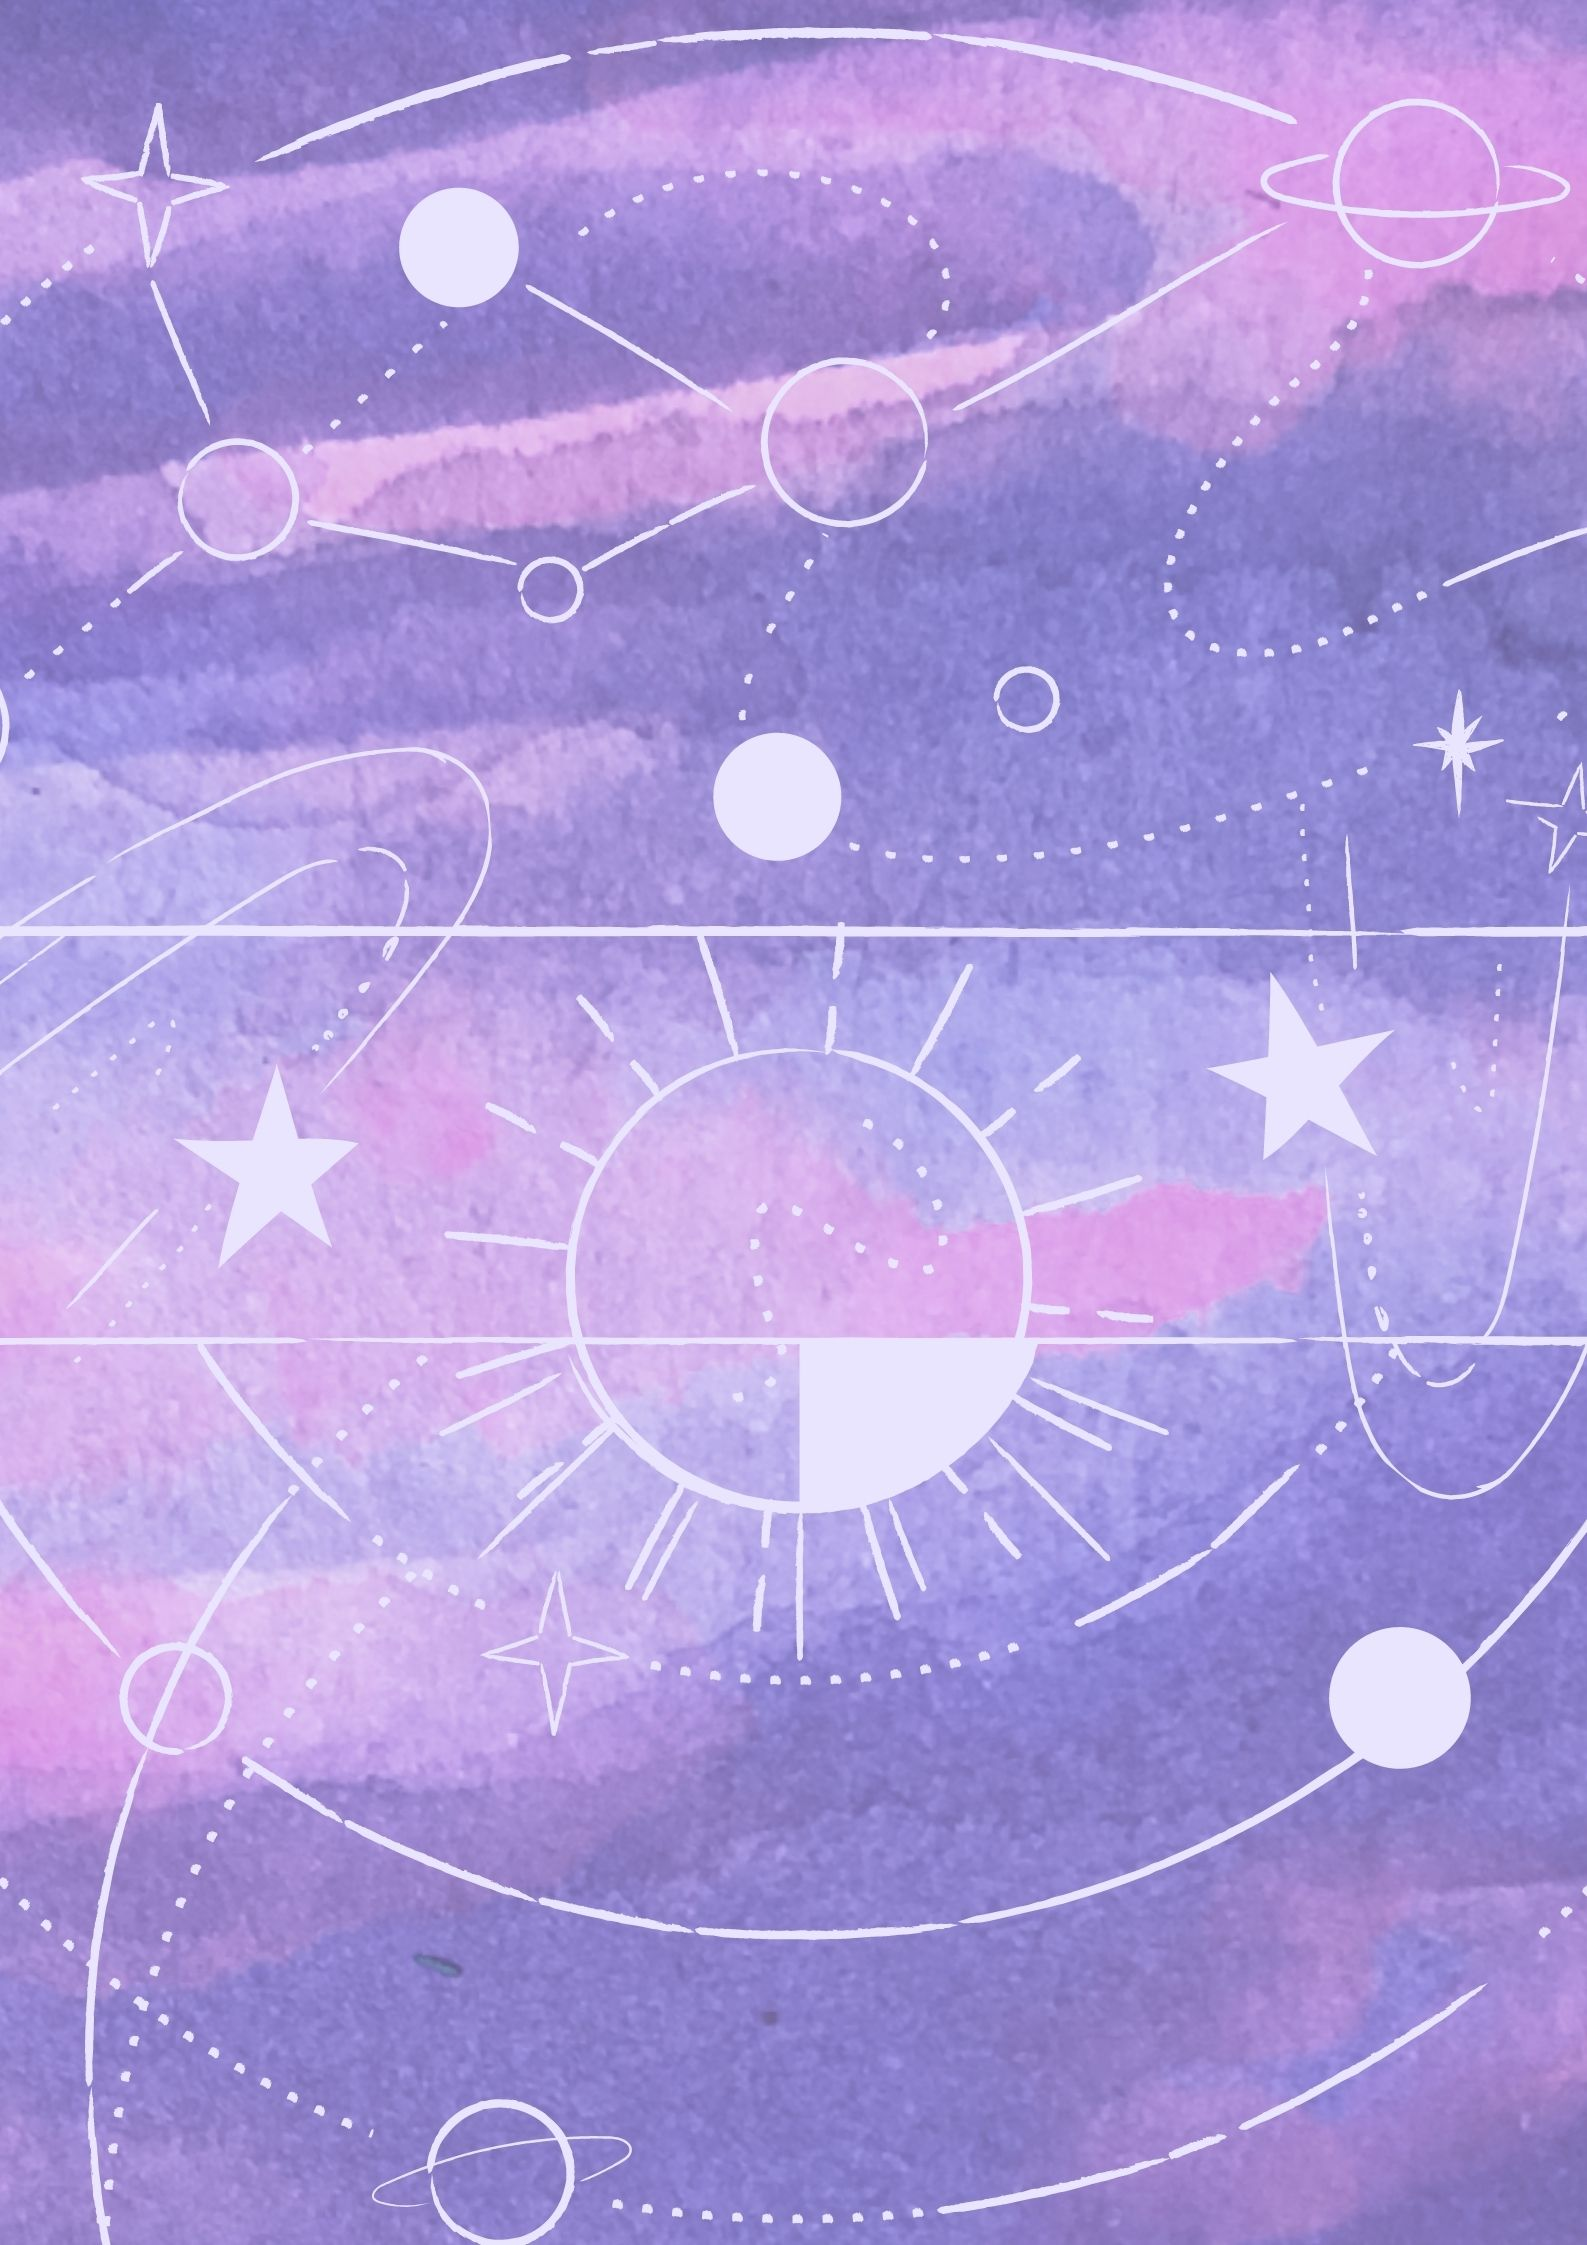
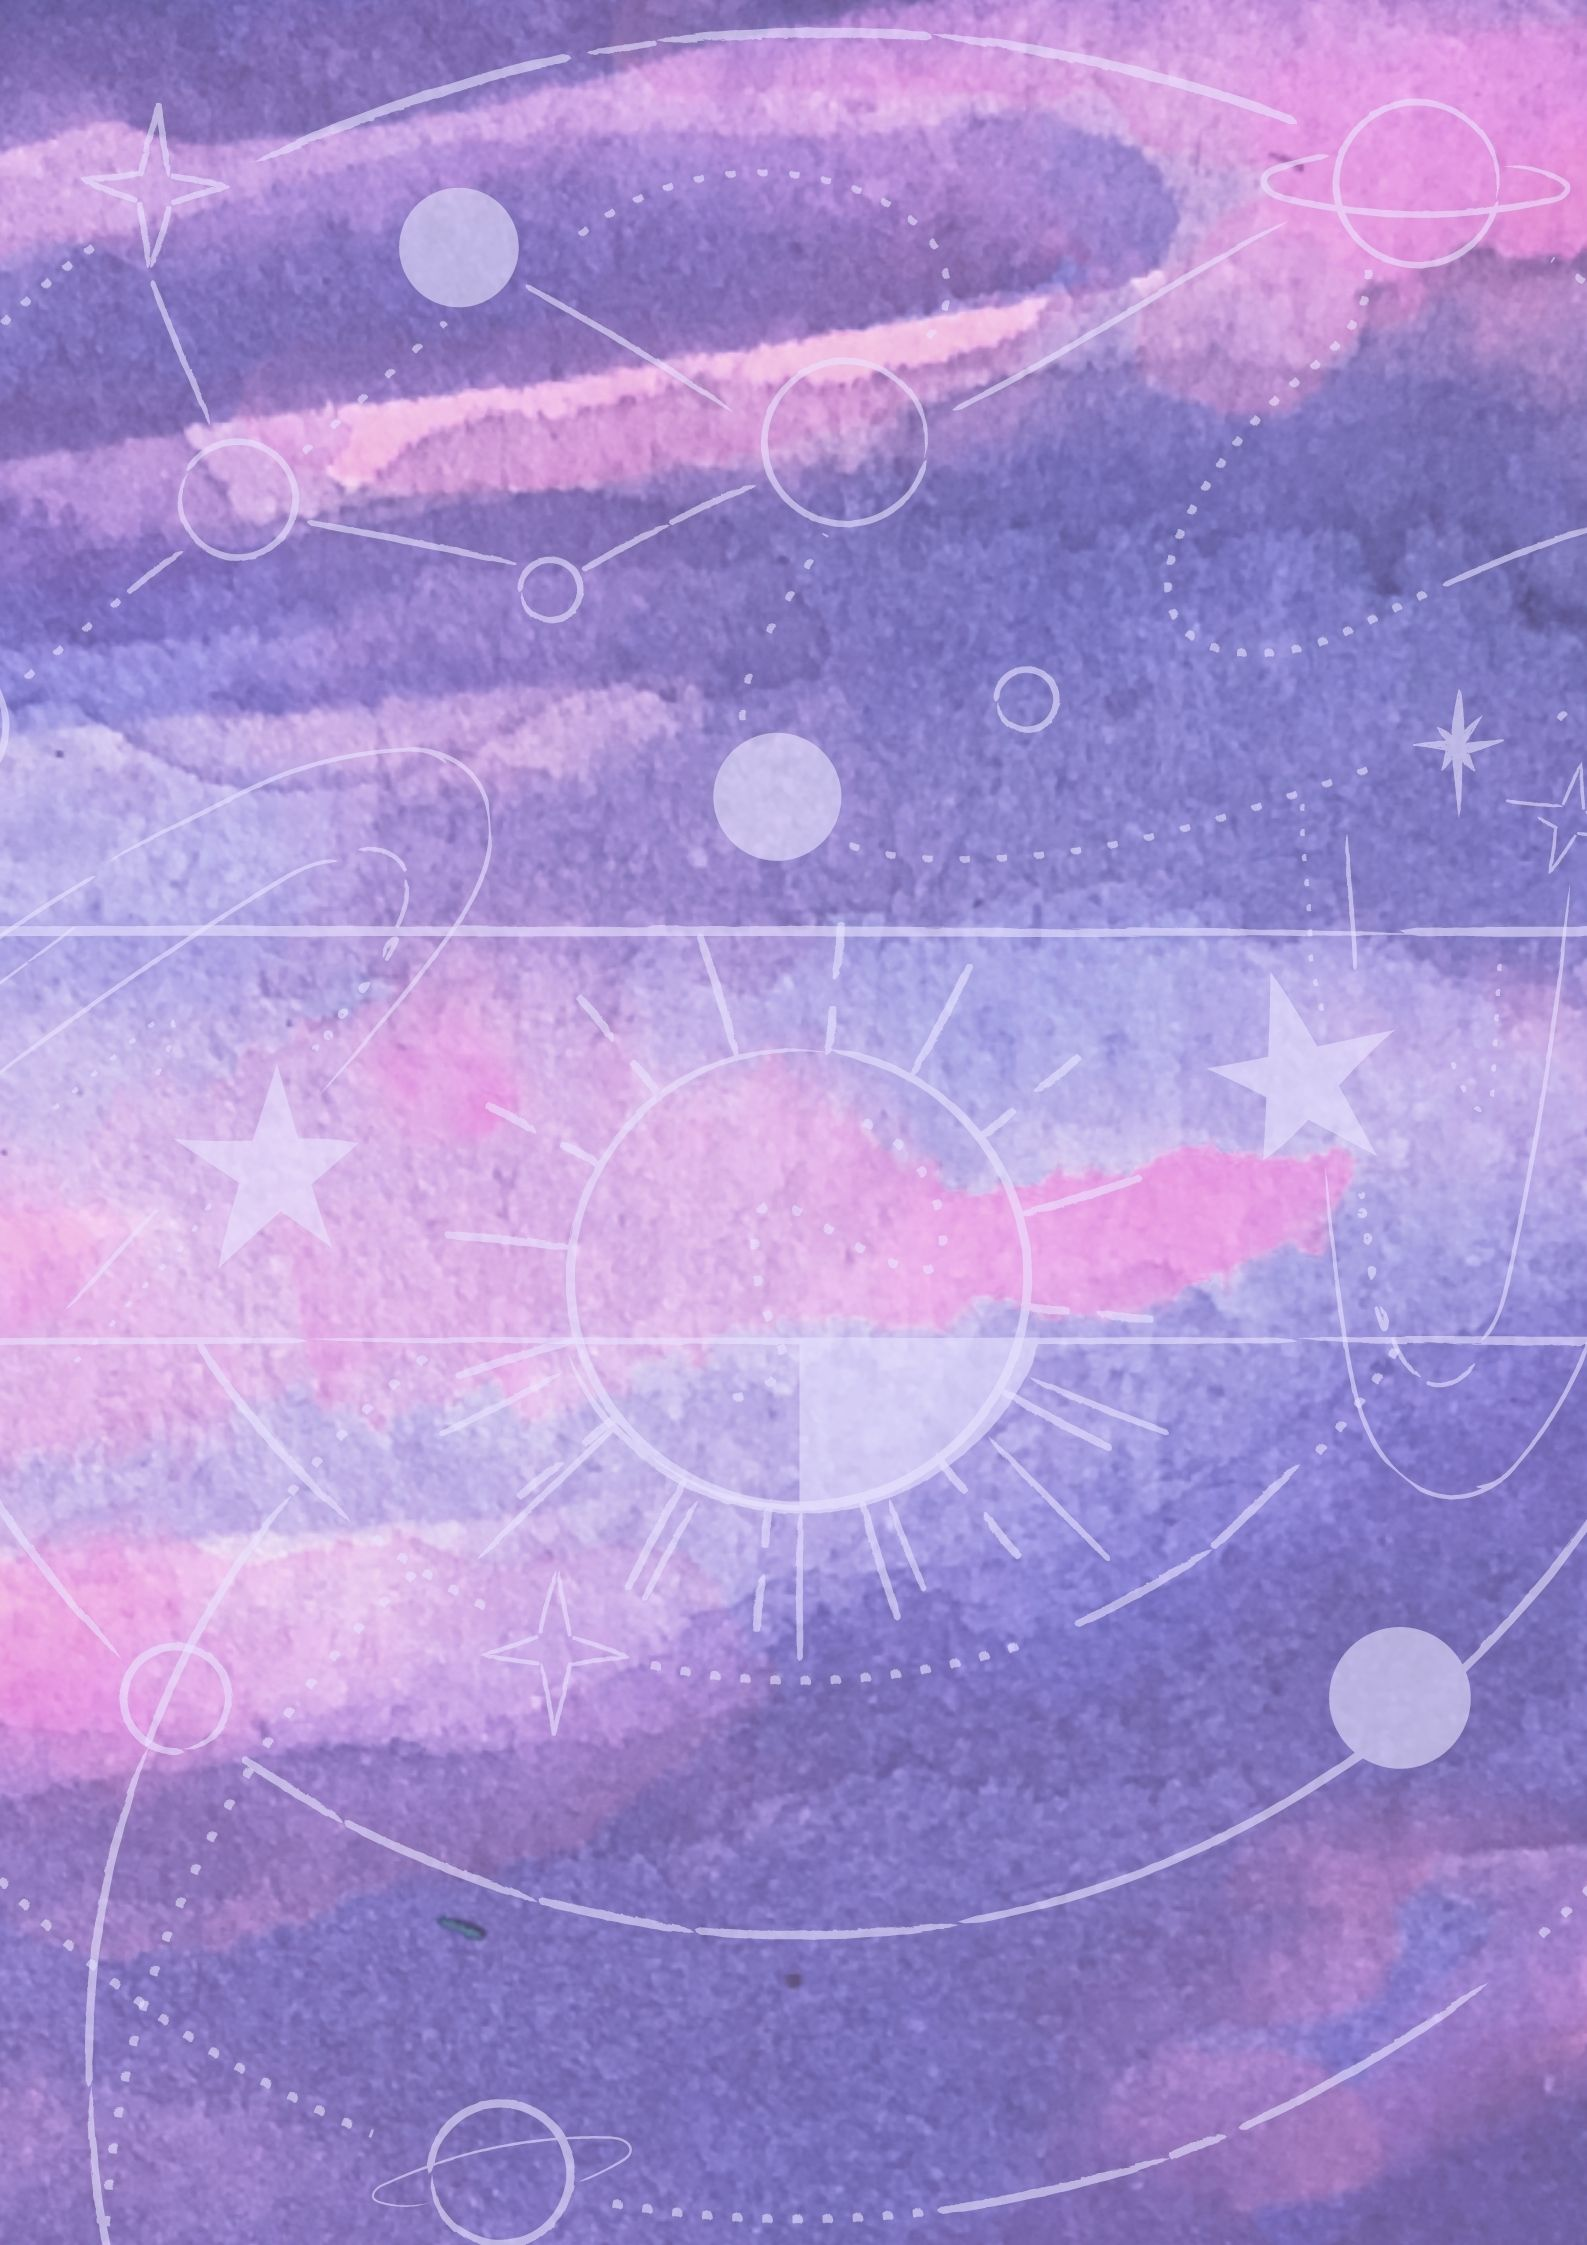
added form, styles, replaced background

diff --git a/src/styles.css b/src/styles.css
@@ -1,3 +1,7 @@
+* {
+  box-sizing: border-box;
+}
+
 body {
   margin: 0;
   font-family: "Comfortaa", cursive;
@@ -11,11 +15,11 @@ body {
 h1 {
   font-size: 2.25rem;
   font-weight: 300;
-  margin: 2em 0;
+  margin: 0;
 }
 
 h1 + p {
-  color: #404040;
+  color: #ebe8ff;
   font-weight: 700;
   font-size: 1.3125rem;
   text-transform: uppercase;
@@ -25,6 +29,8 @@ h1 + p {
 h2 {
   font-size: 1.3125rem;
   margin: 0;
+  margin-bottom: 0.75rem;
+  color: #8b83ce;
 }
 
 h2 + p {
@@ -33,14 +39,19 @@ h2 + p {
   font-size: 1rem;
   text-transform: uppercase;
   margin-top: 0;
+  background-color: #f4d2f7;
+  padding: 0.3rem;
+  width: 100%;
 }
 
 .top-text {
-  font-size: 0.7rem;
+  font-size: 0.88rem;
   font-weight: 700;
-  color: #404040;
+  color: #8b83ce;
+  background-color: #fff;
   text-transform: uppercase;
   order: -1;
+  padding: 3px;
 }
 
 .fine-print {
@@ -57,9 +68,13 @@ span {
 .intro {
   background-color: #d1c8ff;
   background-image: url(../images/backcosmic.jpg);
+  background-size: cover;
+  background-position: center;
   padding: 0 0.5em 2em;
   display: flex;
   flex-direction: column;
+  justify-content: space-between;
+  min-height: 50vh;
 }
 
 /* Main Section */
@@ -68,8 +83,58 @@ span {
   padding: 2em 1em;
 }
 
+.intro *,
+.main-content * {
+  max-width: 430px;
+  margin-left: auto;
+  margin-right: auto;
+}
+/* Form */
+form {
+  width: 90%;
+  max-width: 300px;
+}
+
+input {
+  font-size: 0.88em;
+  line-height: 1.88em;
+  margin-bottom: 0.75em;
+  text-align: inherit;
+  font-family: inherit;
+  width: 100%;
+  border: 0.75px solid #8b83ce;
+  border-radius: 3px;
+  background-color: #d1c8ff;
+}
+
+input:active,
+input:focus {
+  background-color: #f4d2f7;
+}
+
 /* Media Query */
-@media (min-width: 500px) {
+@media (min-width: 600px) {
   body {
+    font-size: 1.125rem;
+    display: flex;
+  }
+  h1 {
+    font-size: 3rem;
+    overflow-wrap: break-word;
+    hyphens: auto;
+  }
+  h2,
+  h1 + p {
+    font-size: 1.75rem;
+  }
+  .intro,
+  .main-content {
+    width: 50%;
+    min-height: 100vh;
+  }
+  .main-content {
+    display: flex;
+    flex-direction: column;
+    justify-content: center;
   }
 }

diff --git a/index.html b/index.html
@@ -25,7 +25,17 @@
         empowerment tools and techniques based on your birth chart. Let the
         stars guide you!
       </p>
-      <!-- form will go here -->
+      <form>
+        <label for="name">Name:</label>
+        <input type="text" id="name" placeholder="Enter your name" />
+      </br>
+        <label for="date">Date and time of birth:</label>
+        <input type="datetime-local" id="date" />
+        </br>
+        <label for="location">Location</label>
+        <input type="text" id="location" placeholder="City, Country" />
+        <button type="submit">Send!</button>
+      </form>
       <p class="fine-print">Your information stays private with us.</p>
     </div>
   </body>
